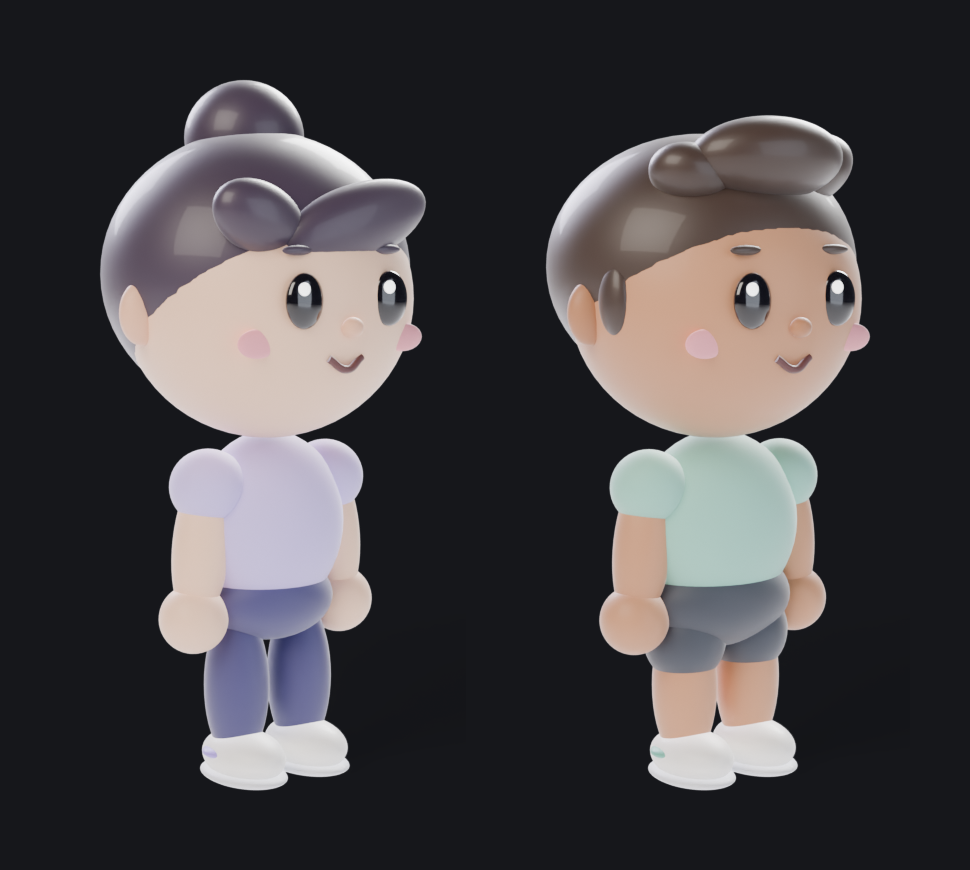
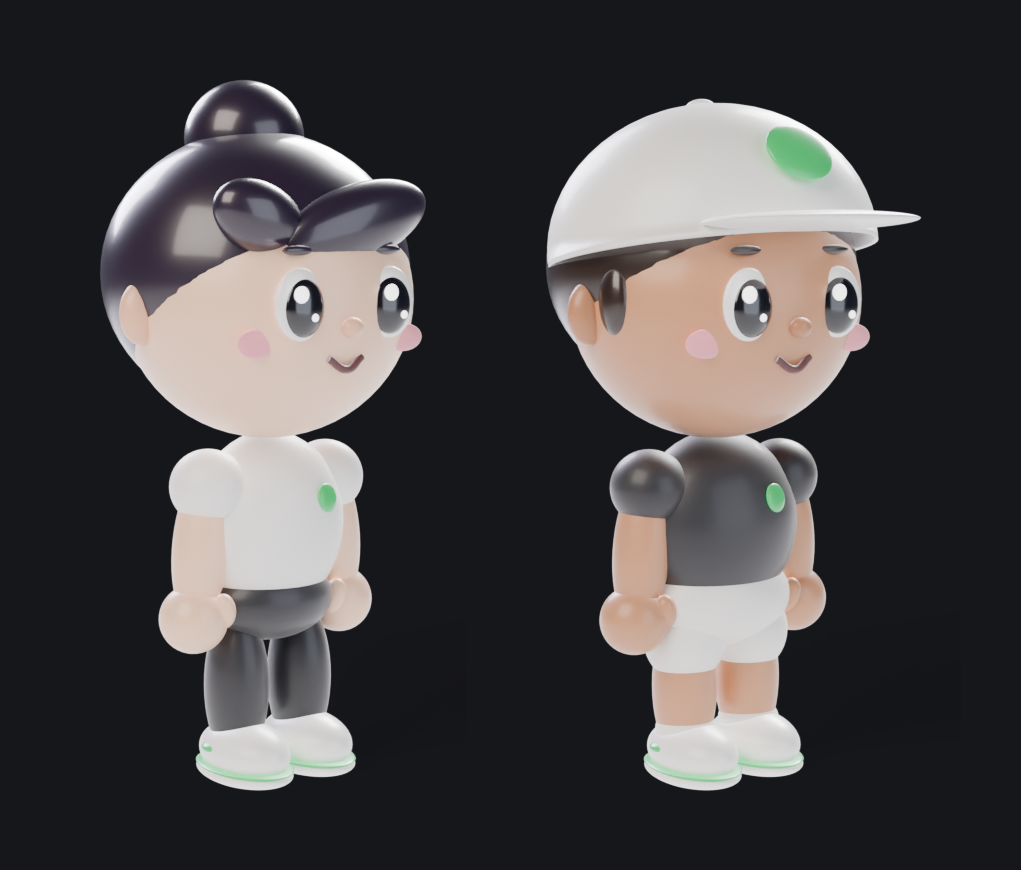
Fix two phone-screen details; v0.2 sheets; docs for the new onboarding
- Beat screen: the "Thursday" label sits under its marker, clear of the
  bar. Grow screen: a shorter chart and a smaller score, so the caption
  no longer clips at the bottom.
- Character sheets and cast re-rendered in the v0.2 look.
- Tracko skill: status, colour (OKLCH table), type (Geist), characters,
  engineering and the 4-page onboarding spec. Reference library: pattern
  P1 records what the owner took from 005/006. READMEs updated.

Claude-Session: https://claude.ai/code/session_01F4sdXapuQecynkW6QNuSwi

Changed region(s): [[0.5258, 0.0931, 0.8969, 0.931], [0.0928, 0.0931, 0.4639, 0.931], [0.1546, 0.5276, 0.1856, 0.7448]]

diff --git a/Tracko/Onboarding/PhoneScreens.swift b/Tracko/Onboarding/PhoneScreens.swift
@@ -10,7 +10,7 @@ private enum PhoneText {
     static let note = TypeScale.illustration(.regular, 14)
     static let detail = TypeScale.illustration(.regular, 10.5)
     static let figure = TypeScale.illustration(.extraBold, 24)
-    static let score = TypeScale.illustration(.extraBold, 46)
+    static let score = TypeScale.illustration(.extraBold, 42)
 }
 
 // MARK: - Log it like a note
@@ -214,29 +214,31 @@ struct BeatPhoneScreen: View {
             )
     }
 
+    /// The bar fills set by set toward Thursday's total, marked by a line labelled underneath.
     private var progressBar: some View {
-        VStack(alignment: .leading, spacing: 4) {
-            GeometryReader { proxy in
-                let width = proxy.size.width
-                ZStack(alignment: .leading) {
-                    Capsule().fill(Theme.surfaceRaised)
-                    Capsule()
-                        .fill(beaten ? Theme.accent : Theme.textPrimary)
-                        .frame(width: width * min(volumeSoFar / scaleMax, 1))
-                    // Thursday's total, the line to beat.
-                    Rectangle()
-                        .fill(Theme.textSecondary)
-                        .frame(width: 2, height: 18)
-                        .offset(x: width * target / scaleMax - 1)
-                }
+        GeometryReader { proxy in
+            let width = proxy.size.width
+            let marker = width * target / scaleMax
+            ZStack(alignment: .topLeading) {
+                Capsule()
+                    .fill(Theme.surfaceRaised)
+                    .frame(height: 10)
+                Capsule()
+                    .fill(beaten ? Theme.accent : Theme.textPrimary)
+                    .frame(width: width * min(volumeSoFar / scaleMax, 1), height: 10)
+                Capsule()
+                    .fill(Theme.textSecondary)
+                    .frame(width: 2, height: 16)
+                    .offset(x: marker - 1, y: -3)
+                Text("Thursday")
+                    .font(PhoneText.label)
+                    .foregroundStyle(Theme.textTertiary)
+                    .fixedSize()
+                    .frame(width: marker, alignment: .trailing)
+                    .offset(y: 18)
             }
-            .frame(height: 10)
-            Text("Thursday")
-                .font(PhoneText.label)
-                .foregroundStyle(Theme.textTertiary)
-                .frame(maxWidth: .infinity, alignment: .trailing)
-                .padding(.trailing, 4)
         }
+        .frame(height: 30)
     }
 
     @MainActor
@@ -299,7 +301,7 @@ struct GrowPhoneScreen: View {
                     .padding(.top, 2)
 
                 GrowthChart(curve: demo.growthCurve, drawn: drawn)
-                    .frame(height: 118)
+                    .frame(height: 96)
                     .padding(.top, 16)
 
                 HStack {

diff --git a/Tracko/Onboarding/Hero.swift b/Tracko/Onboarding/Hero.swift
@@ -87,7 +87,7 @@ struct PhoneScreen<Content: View>: View {
             content()
                 .padding(.horizontal, 12)
                 .padding(.top, 32)
-                .padding(.bottom, 14)
+                .padding(.bottom, 18)
                 .frame(maxWidth: .infinity, maxHeight: .infinity, alignment: .topLeading)
             Capsule()
                 .fill(.black)

diff --git a/.claude/skills/tracko/SKILL.md b/.claude/skills/tracko/SKILL.md
@@ -21,20 +21,14 @@ Working name in the early concept decks: "Everything Gym". The product is now **
 
 | Area | State | Notes |
 |---|---|---|
-| Onboarding scene 1, Hook | Built v0.1 | Notes page scrolls, freezes, dims |
-| Onboarding scene 2, Note to verdict | Built v0.1 | Matched-geometry parse, ghost, bars, +10% count-up |
-| Onboarding scene 3, Number to beat | Built v0.1 | Live bar vs dashed line, set tiles, haptics |
-| Onboarding scene 4, Try it | Built v0.1 | Rep slider, live % and muscle glow, auto-nudge |
-| Onboarding scene 5, Watch yourself grow | Built v0.1 | 12-week time-lapse on the honest curve; shape-based figure (Rive later) |
-| Onboarding scene 6, Proof on a clock | Built v0.1 | Curve draws Today → Week 1 → Month 3 with a neutral "recovery" dip |
-| Onboarding scene 7, Goal | Built v0.1 | Build / Lose fat / Both; figure morphs |
-| Onboarding scene 8, History fork | Built v0.1 (choice only) | Import and baseline flows not built |
-| Onboarding scene 9, Future Wrapped | Built v0.1 | 9:16 card with name field, 90 days to go, "Notify me" asks permission |
-| Characters (female, male) | Built v0.1 | Clay chibi pair + "gym log" clip (walk in, lateral raises, log, +%, celebrate); `characters/` |
-| Onboarding UI polish | Next | Driven by the reference library (§9.0) and the characters (§9.7) |
+| Onboarding (4 pages) | Built v0.2 | Any Distance layout (§11): welcome, log it like a note, number to beat, get stronger. 3D heroes with live phone screens |
+| Design system | Built v0.2 | OKLCH tokens rendered in Display P3, Geist type scale, green glow (§9) |
+| Characters (female, male) | Built v0.2 | Vinyl-toy finish, onboarding heroes, sheets (`characters/`). The "gym log" clip is still the v0.1 look |
+| Goal, notes import, baseline, notification ask | Moved out of onboarding | Owner capped onboarding at 4 pages; these move to the app's first run (not built) |
+| Logo | Placeholder | A "T" in a capsule, until the brand mark is designed |
 | Logging, growth report, home | Not started | |
 
-Code lives in `Tracko/` (see §10). Builds and tests pass in CI; runs on a real iPhone. The flow works, but the visuals are first-pass and need a lot of polish.
+Code lives in `Tracko/` (see §10). Builds and tests run in CI, which also screenshots every onboarding page; the app runs on a real iPhone.
 
 ---
 
@@ -166,7 +160,7 @@ Default from `Locale.measurementSystem`: `.us` → lb, else kg. Demo content loc
 - Onboarding headlines: ≤ 7 words. If a scene needs a paragraph, the animation isn't working yet.
 - Never say "AI". Show understanding instead (shorthand parsed, maths done).
 - No shame words. A dip is "recovery". A missed week is "pick it back up", not "streak lost".
-- Buttons say what happens: "Continue", "Start tracking", "Import notes". No arrows in labels.
+- Buttons say what happens: "Continue", "Start tracking", "Import notes". No arrow characters in label text; the onboarding's advance button carries a trailing arrow icon, as in the reference, hidden from VoiceOver.
 
 ---
 
@@ -175,39 +169,45 @@ Default from `Locale.measurementSystem`: `.us` → lb, else kg. Demo content loc
 ### 9.0 References
 UI decisions draw on the reference library in `design/references/README.md`: numbered screenshots and recordings (Mobbin links are fetched with `design/references/tools/fetch_mobbin.py`), and the **Patterns** taken from them. Entries are filing only; the product owner decides what to extract from each, so don't apply a reference until a takeaway is recorded. The library's **Priority** list is the owner's ranking and wins when references disagree; two references share priority 1: 005 (Any Distance; its whole flow is 006) for how the onboarding should look, with a 3D character matching Tracko's; 004 (BitePal) for illustration and storytelling. Read it before any UI work. When a pattern is applied to the app, write the resulting rule or token into this section.
 
+**Applied:** the onboarding layout, glow, hero dioramas and button come from 005/006 (library pattern P1, owner's direction 2026-10-14), with green as the brand colour instead of the reference's red. The hero phone's size and the platform's size and colours were measured from 006 (see §9.7).
+
 UI craft skills from `jakubkrehel/skills` are installed in `.claude/skills/` (`better-ui`, `better-layout`, `better-typography`, `better-colors`, `better-accessibility`, `better-writing`, `better-interface`; user-invoked: `interface-review`, `variant`, `break`, `explain-interface`). They're written for the web: apply their principles (concentric radii, optical alignment, hit areas, type scale, surface depth, contrast) in SwiftUI terms, and ignore CSS- or React-specific mechanics. Where they conflict with this skill, this skill wins. Update them with `npx skills update`.
 
 ### 9.1 Concept
-**The notebook becomes the scoreboard.** The "before" is a light paper notes page; the "after" is a dark scoreboard where numbers do the shouting. Motion always flows the same way: **note → maths → proof** (past on the left/top, proof on the right/bottom).
+**Your log, on a stage.** A near-black canvas with a soft green glow falling from the top; 3D characters on a round platform beside a giant phone that shows Tracko's own live screen; one bold headline. Numbers do the shouting, in brand green. Motion still flows **note → maths → proof**.
 
-### 9.2 Colour (each signal has one meaning; never decorative)
-| Token | Hex | Meaning |
-|---|---|---|
-| ink | #16171B | App background |
-| slab / slabRaised | #1E2027 / #262931 | Cards / cards on cards |
-| hairline | #2E313A | Borders, dividers |
-| chalk / chalkMuted / chalkDim | #EDEEF0 / #9AA0A8 / #6B7079 | Text on dark |
-| paper / pencil / highlighter | #FAF8F2 / #26262A / #FCE8A6 | The notes page |
-| **gain** | #3DBA6E | You improved |
-| **target** | #F2C230 | What to do next; primary button |
-| **muscle** | #E5484D | Muscles you trained (never "bad") |
-| **past** | #4C8BF5 | History, last time, the ghost |
-| figure | #3A3F4B | Body illustration |
+### 9.2 Colour (OKLCH, rendered in Display P3)
+Tokens are written in OKLCH: `Palette` holds the ramps (primitives), `Theme` names what each is for, and views only use `Theme`. `design/tools/palette.py` prints each token's P3 and sRGB values, gamut and contrast; `ColorTests` checks the same in CI. Keep both in sync with `Theme.swift`.
 
-Red is reserved for muscles; it is never used for losses or bodyweight.
+| Theme token | Palette | OKLCH | Use |
+|---|---|---|---|
+| canvas | neutral950 | 0.090 0.004 160 | App background, near-black (the reference's is black) |
+| surface / surfaceRaised | neutral900 / 850 | 0.170 0.008 160 / 0.225 0.010 160 | Screens, cards / cards on cards, bar tracks |
+| border | neutral800 | 0.290 0.012 160 | Structure only |
+| indicator | neutral600 | 0.480 0.012 160 | Inactive page dots (3.2:1 on canvas) |
+| textTertiary / textSecondary / textPrimary | neutral500 / 300 / 50 | 0.640 / 0.800 / 0.975 | Text (6.2 / 11.1 / 19.3:1 on canvas) |
+| **accent** | green300 | 0.850 0.235 152 | **Brand and growth:** gains, the +%, a beaten target. Beyond sRGB on purpose |
+| accentMuted | green900 | 0.330 0.085 152 | Tinted fills behind accent content |
+| glow | green600 | 0.500 0.170 152 | The top glow only: fades to canvas by 52% of the height, mixed in OKLab (shape measured from 006) |
+
+- **Green means growth, and is the brand.** It merges the old "gain" signal; the glow is its one decorative use (owner's decision, 2026-10-14). Never use green for anything that isn't growth or the brand.
+- **Reserved for later features**, to be added in OKLCH when first used: target (yellow, what to do next), muscle (red, muscles trained; never losses or bodyweight), past (blue, history and ghosts).
+- The primary button is a light pill (textPrimary fill, canvas label), as in the reference: one per screen.
 
 ### 9.3 Type
-- **Scoreboard numbers and scene headlines:** SF Pro **Compressed Black** (`.width(.compressed)`), large.
-- **Everything else:** SF Pro at Dynamic Type text styles.
-- **Notes page:** SF Pro callout, like the Notes app.
-- No monospace labels, no all-caps eyebrows. Use `.monospacedDigit()` for changing numbers.
+- **Geist** (SIL OFL, `DesignSystem/Fonts/`), registered at launch by `Fonts.register()`. Faces: Regular, SemiBold, Bold, ExtraBold.
+- **Scale (`TypeScale`, Dynamic Type):** wordmark 52 ExtraBold, −3.5% tracking · intro 24 SemiBold · headline 34 Bold, −2% · body 17 Regular, +3 pt line spacing · button 17 SemiBold.
+- Text inside an illustration (the hero phone's screen) uses fixed sizes via `TypeScale.illustration`; the illustration carries a VoiceOver label instead.
+- `.monospacedDigit()` on changing numbers. No monospace labels, no all-caps eyebrows.
+- iOS 17 can't set line height below the font's own (Geist ≈ 1.3); keep headlines to two short lines.
 
 ### 9.4 Motion
 - One orchestrated moment per scene; everything else still.
 - Springs for things that settle (`spring(duration: 0.55, bounce: 0.22)`), snappy for UI feedback, long soft spring for growing bars.
 - Numbers roll with `.contentTransition(.numericText(value:))`.
 - Honest motion: growth curves slow down over time.
-- **Reduce Motion:** jump to the final frame (or crossfade). Every scene must handle it.
+- **Reduce Motion:** jump to the final frame (or crossfade). Every page must handle it.
+- Buttons scale to 0.96 when pressed. The glow fades in once when the app opens. Each onboarding page has one moment: its phone screen's script.
 
 ### 9.5 Haptics (`.sensoryFeedback`)
 - Set logged → `.impact(weight: .light)`
@@ -215,10 +215,12 @@ Red is reserved for muscles; it is never used for losses or bodyweight.
 - Slider and option changes → `.selection`
 
 ### 9.6 Accessibility
-Dynamic Type for all non-score text; VoiceOver labels describe what an animation shows; illustrations `accessibilityHidden`; tap targets ≥ 44 pt; never rely on colour alone (always a number or word).
+Dynamic Type for all non-score text; VoiceOver labels describe what an animation shows (each hero is one image element with a description built from the demo numbers); decorative pieces `accessibilityHidden`; tap targets ≥ 44 pt (the pill is 48); never rely on colour alone (the current page dot is also longer). Page dots are adjustable for VoiceOver. At the largest text sizes an onboarding page scrolls rather than clipping (`ViewThatFits`).
 
 ### 9.7 Characters
-Two clay chibi characters, female and male, carry the onboarding story instead of static diagrams (e.g. walking in, lifting, logging the set, celebrating the +%). They live in `characters/`; its README holds the style rules, files and timing. Rules: both characters come from one recipe (`characters/build/tracko_characters.py`), so any clip works for both; clothes never use signal colours; expressions swap rather than morph; numbers (the +% pop-up) are drawn by the app at the clip's timing mark, never baked into the video, so they always match `LiftMath`.
+Two chibi characters, female and male, carry the story. **v0.2 look** (owner: "polish it more like the Any Distance mascot"): glossy vinyl-toy finish, black-and-white colour blocking with brand-green details (she: white top, black leggings, green hair tie; he: black top, white shorts, white cap with a green badge), big glossy eyes with a white rim, thumbs, chunky sneakers on a green midsole. Both come from one recipe (`characters/build/tracko_characters.py`), so any pose works for both; expressions swap rather than morph; numbers are drawn by the app, never baked into a render.
+
+**Onboarding heroes** (`render_all.py heroes`): one shared camera and platform, so the stage holds still as pages swipe. Matched to 006: the platform spans 82% of the screen width, the phone 32% (about 2:1, centred), the camera sits ~5° above the platform and frames with lens shift; platform top ≈ rgb(31,31,37), side ≈ rgb(10,10,15), phone frame ≈ rgb(20,19,20). The pipeline writes the PNGs into `Assets.xcassets/Onboarding/` and the phone-screen rectangles into `Onboarding/HeroRender.swift`.
 
 ---
 
@@ -231,19 +233,21 @@ Two clay chibi characters, female and male, carry the onboarding story instead o
   Tracko/
     App/            TrackoApp, HomePlaceholderView
     Core/           LiftMath (formulas, units)
-    DesignSystem/   Theme (tokens), Components, BodyFigure
-    Onboarding/     OnboardingModel, OnboardingFlowView, Script, DemoContent
-      Scenes/       one file per scene
-  TrackoTests/      LiftMathTests (keeps §7 examples true)
+    DesignSystem/   OKLCH, Theme (Palette, Theme, TypeScale, Space, Radius, Motion), Components, Fonts (+ Geist)
+    Onboarding/     OnboardingModel, OnboardingFlowView, OnboardingPageView, Hero, PhoneScreens,
+                    HeroRender (generated), Script, DemoContent
+    Assets.xcassets/Onboarding/   hero renders (generated)
+  TrackoTests/      LiftMathTests (§7 examples), ColorTests (gamut, contrast), DemoContentTests
   ```
 - **Project:** `Tracko.xcodeproj` (Xcode 16+) uses synchronized folders: files added under `Tracko/` or `TrackoTests/` join their target automatically, so never hand-edit the project for a new file. Swift 5 language mode, iPhone only, portrait. Bundle ID `com.bimanshu.tracko`.
 - **CI:** `.github/workflows/ios.yml` runs on every push that touches the app: builds, runs the tests, then launches each onboarding scene on an iPhone Pro and an iPhone SE simulator and uploads screenshots (plus a contact sheet per device) as the `screenshots` artifact. The JPEGs are also force-pushed to the `ci-screenshots` branch (`git fetch origin ci-screenshots`), which cloud sessions can read when the artifact host is blocked. Check both after every change; cloud sessions can't compile locally.
 - **Running on a phone:** steps in `README.md` (Xcode + free Apple ID, 7-day expiry).
-- **Debug launch argument:** `-TrackoStartScene <0–8>` opens onboarding on that scene (used by CI screenshots).
+- **Debug launch argument:** `-TrackoStartScene <0–3>` opens onboarding on that page (used by CI screenshots).
+- **Generated files:** `HeroRender.swift` and the hero PNGs come from `python3 characters/build/render_all.py heroes` (Blender 4.5). Re-render rather than edit them.
 - **Conventions:**
-  - Scripted animations: `@MainActor func play() async` driven by `.task(id: replay)`, steps separated by `guard await Script.wait(x) else { return }` so leaving a scene cancels cleanly. Tap a scene to replay.
-  - Every scene: works with Reduce Motion, has a `#Preview`, takes data from `DemoContent` (localized units), no hard-coded maths (call `LiftMath`).
-  - Colours, fonts, spacing and animations only via `Theme`, `Font`, `Space`, `Radius`, `Motion`.
+  - Scripted animations: `@MainActor func play() async` driven by `.task(id: ScriptRun(isActive:replay:))`, steps separated by `guard await Script.wait(x) else { return }` so leaving a page cancels and rewinds cleanly. Tap a hero to replay.
+  - Every page: works with Reduce Motion, has a `#Preview`, takes data from `DemoContent` (localized units), no hard-coded maths (call `LiftMath`).
+  - Colours, fonts, spacing and animations only via `Theme`, `TypeScale`, `Space`, `Radius`, `Motion`. New colours go into `Palette` in OKLCH first.
   - Unit-test every formula with the reference examples in §7.
 
 ---
@@ -252,33 +256,30 @@ Two clay chibi characters, female and male, carry the onboarding story instead o
 
 ### Why onboarding exists
 1. **Set the mental model:** "I log once, it does the maths and talks back."
-2. **Get the "before":** a % needs two data points. Import old notes or log one recent lift.
-3. **Deliver the first win** before onboarding ends: the first "+%" or the first number to beat.
+2. **Show the payoff before asking for anything:** a verdict, a number to beat, growth over time.
+
+Getting the "before" (notes import or one baseline lift) and the first win now happen in the app's first run, not in onboarding (owner's decision, 2026-10-14: at most 4 screens).
 
 ### The one message
 **Your log talks back**, in three beats: you already do the work → we do the maths → you watch yourself change.
 
-### Storyboard (60–90 s, skippable to the goal scene)
-| # | Scene | Visual and motion | Words | Collects |
+### Pages (layout from 005/006)
+Logo capsule on top; hero full width; two-line headline (≤ 7 words) and one subline; page dots; a light pill button ("Continue", then "Start tracking"). Pages swipe; the logo, dots and button stay put.
+
+| # | Page | Hero | Phone screen moment | Words |
 |---|---|---|---|---|
-| 1 | Hook | Notes page scrolls endlessly, freezes, dims | "You log every set. It never answers." | – |
-| 2 | Note → verdict | Line breaks into chips (matched geometry), Monday's ghost slides in, bars grow, +10% rolls up | "Log it like a note. We do the maths." | – |
-| 3 | Number to beat | Bar fills set by set past a dashed line; haptic per set; success | "Always know the number to beat." | – |
-| 4 | Try it | Rep slider; % and shoulder glow change live; auto-nudge once | "Try it." / "Drag the reps." | – |
-| 5 | Watch yourself grow | 12-week time-lapse; trained muscles grow, fast then slowing | "Watch yourself grow." | – |
-| 6 | Proof on a clock | Timeline Today → Week 1 → Month 3; curve rises, dips ("recovery"), rises | "Proof, on a clock." | – |
-| 7 | Goal | Build / Lose fat / Both; figure bulks or leans | "What's your goal?" | goal |
-| 8 | History fork | Yes → paste/photo notes → parse → "Found 6 months, bench +24%" and the body fills in. No → log one lift → "This is your Day 1" | "Do you already track?" | history or baseline |
-| 9 | Future Wrapped | Card with their name, "90 days to go" | "We'll tell you when it's ready." | notification permission |
+| 1 | Welcome | Both characters wave on the stand | – (the glow fades in) | "Welcome to Tracko" / "The gym log that talks back." |
+| 2 | Log it like a note | She reaches for the giant phone; surprised → happy | "8 × 12, 11, 10" types in, Monday appears, +10% counts up with the reason | "Log it like a note" / "Type 8 × 12, 11, 10 and Tracko does the maths." |
+| 3 | Number to beat | He does lateral raises; effort → happy | Two sets fill a bar toward Thursday's line; "10 reps ties Thursday. 11 beats it."; the last set beats it; +3% | "Always know the number to beat" / "Every lift opens with what beats last time." |
+| 4 | Get stronger | Both celebrate | The honest curve draws over 12 weeks; +25% | "Watch yourself get stronger" / "Proof you're growing, week by week." |
 
 ### Onboarding rules
-- One idea per screen; the animation carries the explanation.
-- Personal beats generic: show the user's own numbers as early as possible.
-- Ask permissions only when they make sense: Health when choosing "Lose fat", notifications when promising the Wrapped, Photos when importing.
-- Skip jumps to scene 7; story scenes are optional, data scenes are not.
+- One idea per page; the hero and its phone screen carry the explanation.
+- At most four pages. Ask for nothing here: goal, notes import and permissions belong to the first run, each asked when it makes sense (Health when choosing "Lose fat", notifications when promising the Wrapped, Photos when importing).
+- Numbers on the phone come from `DemoContent` and `LiftMath`, in the user's units.
 
 ### Onboarding metrics
-Share reaching a first verdict or baseline; time to that moment; notes-import completion; notification opt-in; day-7 retention.
+Onboarding completion (reaching page 4 and tapping Start tracking); time on each page; then, in the first run: share reaching a first verdict or baseline, notes-import completion, notification opt-in; day-7 retention.
 
 ---
 
@@ -292,6 +293,7 @@ Share reaching a first verdict or baseline; time to that moment; notes-import co
 ---
 
 ## 13. Changelog (newest first)
+- **2026-10-14 · v0.2** Onboarding rebuilt in the style of the priority-1 reference (Any Distance, 005/006) at the owner's direction: 4 pages, 3D heroes with live phone screens, near-black canvas with a soft green glow, light pill button. Green is now the brand colour (merging "gain"). Colour tokens moved to OKLCH (Display P3), type to Geist. Characters v0.2 (vinyl-toy finish). Goal, history and the notification ask moved out of onboarding. The nine v0.1 scenes and the shape body figure were removed (see git history before 7d2a7e5).
 - **2026-10-02** Characters v0.1: female and male clay chibis built in Blender from one script, character sheets, and an 8 s "gym log" clip (transparent master + preview). Added §9.7.
 - **2026-10-02** Started the UI reference library (`design/references/`) ahead of a big visual polish pass; skill §9.0 points to it.
 - **2026-10-02 · v0.1 code** Xcode project (synchronized folders), all nine onboarding scenes, LiftMath + tests, CI that builds, tests and screenshots every scene. Scenes 5, 6 and 9 built (were placeholders). Runs on device via Xcode.

diff --git a/characters/README.md b/characters/README.md
@@ -1,6 +1,6 @@
 # Tracko characters
 
-Two playful clay characters, female and male, who act out the onboarding story: walking into the gym, lifting, logging the set, and celebrating when the number goes up. They're built from one recipe, so they always match.
+Two playful characters, female and male, who act out the onboarding story: lifting, logging the set, and celebrating when the number goes up. They're built from one recipe, so they always match. Since v0.2 they have a glossy vinyl-toy finish, like the Any Distance mascot the owner pointed to (`design/references/005`, `006`).
 
 ![The cast](cast.png)
 
@@ -14,8 +14,25 @@ Two playful clay characters, female and male, who act out the onboarding story: 
 | `female/gym-log.webm`, `male/gym-log.webm` | The same clip with a transparent background and no pop-up: the master for the app |
 | `gym-log-timing.json` | Frame and second marks for each beat; the app syncs its overlay (the +% pop-up) to `popup` |
 | `build/` | The Blender script that builds and animates the characters, and the render pipeline |
+| `../Tracko/Assets.xcassets/Onboarding/` | The onboarding heroes, rendered by `render_all.py heroes` (see below) |
+
+## Onboarding heroes
+
+Each onboarding page has a diorama: the characters on a round platform, beside a giant phone for the pages that show the app. All heroes share one camera and one platform, so the stage holds still while the pages swipe. Matched to the reference by measurement: the platform spans 82% of the image width and the phone 32%, centred; the camera sits about 5° above the platform and frames with lens shift; the platform and phone frame colours match the reference's.
+
+| Hero | Characters | Faces |
+|---|---|---|
+| `hero-welcome` | Both, waving | happy |
+| `hero-log-a`, `-b` | She reaches for the phone | surprised, then happy |
+| `hero-beat-a`, `-b` | He does a lateral raise | effort, then happy |
+| `hero-grow` | Both celebrating | happy |
+
+The phone's screen is left dark: the app draws its live screen there, at the rectangle the pipeline writes into `Tracko/Onboarding/HeroRender.swift`, so the numbers come from `LiftMath` and follow the user's units. The `-a`/`-b` pairs are the same shot with a different face; the app swaps them when its moment lands.
 
 ## The gym log clip
+
+The clip still has the v0.1 look (pastel clothes, smaller eyes); re-render it with `anim` and `post` to update it.
+
 
 8 seconds at 24 fps (192 frames):
 
@@ -34,12 +51,12 @@ The pop-up isn't rendered into the transparent clip, because its number has to c
 
 ## Style rules
 
-- **Chibi clay.** The head is about 40% of the height, the limbs are short and rounded, and everything is matte, smooth and made from soft rounded shapes. The reference is soft 3D clay animals, made human.
-- **Faces stay simple.** Dot eyes with one sparkle, pink blush, a small nose, a line smile. Expressions swap instantly rather than morphing: neutral, effort (`> <`), surprised, happy (`^ ^`).
-- **The two characters differ only in their spec:** skin, hair (bun with a side fringe, or a quiff), outfit (leggings, or shorts) and build. Proportions, faces and animation are shared, so any new clip works for both.
-- **Colours never borrow the app's signals.** Clothes are soft lilac, mint, indigo and charcoal. No red (red means trained muscles) and no Tracko yellow or green (target and gain).
-- **Props are oversized** (dumbbells, phone) so they read at onboarding size.
-- **Lit for the dark app.** A warm key light, a cool fill, and two shadowless rim lights that keep dark hair separate from the ink background.
+- **Chibi vinyl toy.** The head is about 40% of the height, the limbs are short and rounded, and every part is a smooth rounded shape under a glossy clear coat, like a collectible figure.
+- **Faces stay simple.** Big glossy eyes with a thin white rim and two sparkles, pink blush, a small nose, a line smile. Expressions swap instantly rather than morphing: neutral, effort (`> <`), surprised, happy (`^ ^`).
+- **The two characters differ only in their spec:** skin, hair (bun with a side fringe, or a quiff under a cap), outfit (leggings, or shorts and socks) and build. Proportions, faces and poses are shared, so any new shot works for both.
+- **Black, white and brand green.** They mirror each other: she wears a white top and black leggings, he a black top and white shorts with a white cap. Brand green appears only in small details (hair tie, chest badge, cap badge, midsoles). No red (red is reserved for trained muscles) and no yellow (targets).
+- **Props are oversized** (dumbbells, kettlebell, bumper plate, bottle, a giant phone) so they read at onboarding size.
+- **Lit for the dark app.** A warm key, a cool fill, a warm side light, a brand-green glow from behind and above (kept off the platform with light linking), and cool rims.
 
 ## Re-rendering and adding clips
 
@@ -49,6 +66,7 @@ You need Blender 4.5 LTS, Pillow and ffmpeg (libx264, libvpx-vp9).
 python3 characters/build/render_all.py stills   # sheets and cast.png
 python3 characters/build/render_all.py anim     # clip frames (about 25 min per character on 4 cores)
 python3 characters/build/render_all.py post     # preview .mp4, transparent .webm, timing.json
+python3 characters/build/render_all.py heroes   # onboarding heroes -> the app's asset catalog (about 3 min each)
 ```
 
 Set `BLENDER=/path/to/blender` if it isn't at the default path. To change a character, edit `SPECS` in `build/tracko_characters.py`. To add a clip, write another `animate_…` function next to `animate_gym_log`, using the same pose helpers (`set_arm`, `set_leg`, `key_expression`).

diff --git a/design/references/README.md b/design/references/README.md
@@ -26,7 +26,13 @@ The onboarding as of v0.1 (the code CI screenshots on every push), kept for befo
 
 ## Patterns
 
-_None yet._
+### P1 · Onboarding like Any Distance (from 005, 006)
+Owner, 2026-10-14: "make my onboarding like this", at most 4 screens, with our 3D characters polished to match the mascot, and green as the brand colour for the glow. Applied in onboarding v0.2 (skill §9, §11).
+
+- **Layout:** logo capsule on top; a 3D diorama hero across the full width; a bold two-line headline and a one-line subline, centred; page dots; a light pill button with an arrow. Pages swipe; the logo, dots and button stay put.
+- **Hero:** a character beside a giant phone that shows the app's real screen, with a few props, on a dark round platform. Matched to 006 by measurement: platform 82% of the screen width, phone 32% and centred, a camera ~5° above the platform; platform top ≈ rgb(33,34,38), side ≈ rgb(11,12,16), phone frame ≈ rgb(17,18,22).
+- **Light:** near-black canvas; one soft glow from the top whose lightness fades evenly to black at about half the screen (in 006: OKLCH L 0.50 at the top, chroma about a third of L). Tracko's glow is brand green.
+- **Mascot finish:** glossy vinyl toy, bold black-and-white colour blocking with one brand colour, big eyes, chunky sneakers, a cap.
 
 ## References
 
@@ -70,6 +76,7 @@ _None yet._
 
 - **What it is:** one onboarding screen from Any Distance, an activity-tracking app: the last of five pages ("Collect'em all Collectibles").
 - **Owner's note:** priority 1. Exactly how the owner wants Tracko's onboarding to look; the 3D character matches Tracko's characters.
+- **Take:** the whole look, as pattern P1.
 - **Screen:** black background with a deep red glow falling from the top; the app's logo in an outlined capsule; a 3D diorama on a dark round platform: a phone showing a running route on a dark map and a "20Km" activity medal, a clay-like 3D cat mascot in a cap and sneakers leaning on it, mushroom-shaped trees, a sneaker and a water bottle; a large bold white headline ("Collect'em all Collectibles") with a one-line subline ("Earn achievements, rewards and digital collectibles."); five page dots; a white capsule "Start →" button; "Sign In" at the top left.
 - **Files:** `005-any-distance-onboarding-collectibles.jpg` (a single screen, sent as a screenshot)
 - **Source:** screenshot from Mobbin (Any Distance, iOS). The whole flow is 006; this is its screen 06.
@@ -78,6 +85,7 @@ _None yet._
 ![006](006-any-distance-onboarding-sheet.jpg)
 
 - **What it is:** the complete onboarding of Any Distance, the app 005 comes from (005 is screen 06 here). 24 screens; Mobbin has no recording of this flow.
+- **Take:** the story pages (03–06) as pattern P1, at most 4 pages; measurements for the hero come from screen 04.
 - **Screens:** the logo glowing in an outlined capsule on black, then the same capsule reading "4.0"; "Welcome to Any Distance" ("A new home for your active lifestyle"); three pages, each a 3D diorama on a dark round platform under a red glow, with the clay cat mascot beside a phone: "Assemble your Active Club" (a club leaderboard), "A fresh start every week" (a dog-walk activity), "Collect'em all Collectibles" (a route and a medal); "Got it? Great! Let's get started" over a grid of fitness-app icons, with "Connect Apple Health", an explainer of the Health permission sheet and the Health sheet itself (off, then all on); "Setup your profile", a blank smiling-capsule avatar under "Your Active Club" set in curved text, on a blue glow, with "Sign in with Apple", the Apple ID sheet and a passcode; the avatar header renamed "John's Active Club", then "Your Phone Number" with the keypad and "Pick your username"; "Let's find your friends" with the contacts permission alert; a friend search with a "Team Any Distance" list (Add, then Requested); the club home, with white 3D figures walking and running together ("Any Distance is better with friends!", Invite friends, How it works) and the tab bar; and a notification ask, with the cat in a helmet peeking over an "Activity Synced" banner ("Allow Push Notifications").
 - **Look:** black throughout, with one coloured glow per section (red for the story pages, blue for the profile setup); bold white centred headlines with a one-line grey subline; white capsule buttons; page dots.
 - **Files:** screens `006-any-distance-onboarding-01.jpg` to `-24.jpg`

diff --git a/README.md b/README.md
@@ -7,9 +7,9 @@ The product source of truth (features, maths, voice, design system, onboarding s
 ## What's here
 
 - `Tracko.xcodeproj`: iOS 17+, SwiftUI, no dependencies. New files in `Tracko/` or `TrackoTests/` are picked up automatically, with no project edits needed.
-- `Tracko/`: the app. `Core/LiftMath.swift` holds the formulas, `DesignSystem/` the tokens and components, `Onboarding/` the nine scenes.
+- `Tracko/`: the app. `Core/LiftMath.swift` holds the formulas, `DesignSystem/` the tokens (OKLCH colours, Geist type) and components, `Onboarding/` the four onboarding pages and their live phone screens. The 3D heroes are rendered from `characters/build/` into `Assets.xcassets/Onboarding/`.
 - `TrackoTests/`: unit tests that keep the skill's reference examples true.
-- `.github/workflows/ios.yml`: builds, runs the tests and screenshots every onboarding scene on an iPhone simulator for each push. The screenshots are attached to the run as an artifact.
+- `.github/workflows/ios.yml`: builds, runs the tests and screenshots every onboarding page on an iPhone simulator for each push. The screenshots are attached to the run as an artifact.
 
 ## Run it on your iPhone
 
@@ -26,7 +26,7 @@ With a free Apple ID the app stops opening after 7 days. Press Run again to rene
 
 ### Handy while developing
 
-- Tap any story scene to replay its animation.
-- In Debug builds, the launch argument `-TrackoStartScene <0–8>` opens onboarding on that scene. Set it in **Product → Scheme → Edit Scheme → Run → Arguments**.
+- Tap a page's picture to replay its phone animation.
+- In Debug builds, the launch argument `-TrackoStartScene <0–3>` opens onboarding on that page. Set it in **Product → Scheme → Edit Scheme → Run → Arguments**.
 - After onboarding finishes, the placeholder home screen has **Replay onboarding**.
-- Every scene has a SwiftUI preview, so you can open the canvas with ⌥⌘↩.
+- The pages and components have SwiftUI previews, so you can open the canvas with ⌥⌘↩.
